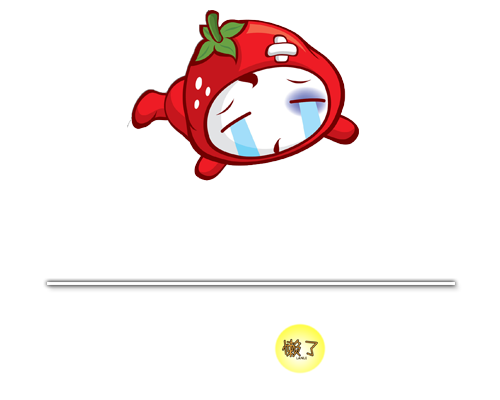
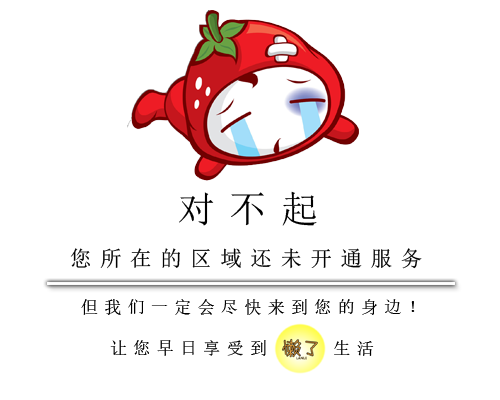
test

diff --git a/public/logic.js b/public/logic.js
@@ -6,6 +6,70 @@ var shoppoingCart = new Array();
 var results = new Array();
 //下单计数器
 var orderCount = 0;
+//手机号
+var phoneNumber;
+
+// 等待PhoneGap加载
+//	document.addEventListener("deviceready", onDeviceReady, false);
+$(document).ready(function() {
+	// 初始化 param1：应用 id、param2：应用 key
+	AV.initialize("hhdpk5vytgtwbc5rkque9oyvfu5mto19ays24u5x5l0pk89j", "d2zsij0i0wwkax18mlo56xsak4my1da58dsza2npmxfyg6r9");
+	$("#afui").get(0).className = 'ios7';
+	/*-----------------变量区--------------------------*/
+	var latitude = 0;
+	var longitude = 0;
+	/*-----------------初始化广告--------------------------*/
+	initAdvertise();
+	/*-----------------初始化地理位置--------------------------*/
+	//geolocation.getCurrentPosition();
+	//	if (navigator.geolocation) {
+	//		navigator.geolocation.getCurrentPosition(successFunction, errorFunction);
+	//	} else {
+	//		alert('It seems like Geolocation, which is required for this page, is not enabled in your browser. Please use a browser which supports it.');
+	//	}
+	getItemData();
+	checkVersion();
+});
+/*			function successFunction(position) {
+latitude = position.coords.latitude;
+longitude = position.coords.longitude;
+-----------------初始化商品--------------------------
+AV.Cloud.run('getItem', {
+"latitude" : latitude,
+"longitude" : longitude
+}, {
+success : function(result) {
+loadItemMainPanel(result);
+},
+error : function(error) {
+alert(error.message);
+}
+});
+}
+function errorFunction() {
+alert("定位失败，请打开gps，并给予懒了足够的权限");
+}
+*/
+
+//获取主页商品数据
+function getItemData() {
+	AV.Cloud.run('getItem', {
+		"latitude" : 31.717531,
+		"longitude" : 118.787853
+	}, {
+		success : function(result) {
+			loadItemMainPanel(result);
+		},
+		error : function(error) {
+			if (error.message == 2) {
+				$("#main_panel ul").remove();
+				var img = "<img id='no_sevice_tip_img_main_panel' src='images/no_service_tip.png' />";
+				$("#main_panel > div").append(img);
+			}
+		}
+	});
+}
+
 //加载主页商品
 function loadItemMainPanel(Items) {
 	var userGeo = new AV.GeoPoint({
@@ -17,19 +81,21 @@ function loadItemMainPanel(Items) {
 			latitude : Items[i].location.latitude,
 			longitude : Items[i].location.longitude
 		});
-		var li = "<li><a data-transition='pop' data-id='" + Items[i].objectId + "' href='#buy_panel'><img src='" + Items[i].smallImage._url + "'><div><p>" + Items[i].name + "<span>" + Items[i].price + "元</span></p><p>" + Items[i].shopName + "<span>距您" + userGeo.kilometersTo(itemGeo).toFixed(2) + "km</span></p></div></a></li>";
+		var li = "<li><a data-transition='pop' data-freight='" + userGeo.kilometersTo(itemGeo).toFixed(2) + "' data-id='" + Items[i].objectId + "' href='#buy_panel'><img src='" + Items[i].smallImage._url + "'><div><p>" + Items[i].name + "<span>" + Items[i].price + "元</span></p><p>" + Items[i].shopName + "<span>距您" + userGeo.kilometersTo(itemGeo).toFixed(2) + "km</span></p></div></a></li>";
 		$("#main_panel ul").append(li);
+		$("#main_panel > div >  ul > li > a").eq(i).click(function() {
+			localStorage.setItem("itemId", $(this).attr("data-id"));
+		});
 	}
-	$("#main_panel > div >  ul > li > a").click(function() {
-		localStorage.setItem("itemId", $(this).attr("data-id"));
-	});
+
 }
 
 //初始化广告
 function initAdvertise() {
 	var ad = AV.Object.extend("Advertise");
 	var query = new AV.Query(ad);
-	query.descending("updatedAt");
+	query.descending("createdAt");
+	query.equalTo("enable", true);
 	query.limit(4);
 	query.find().then(function(results) {
 		for (var i = 0; i < results.length; i++) {
@@ -67,7 +133,7 @@ function collect() {
 		favorite.set("itemId", localStorage.getItem('itemId'));
 		favorite.save().then(function(favorite) {
 			popup = af("#afui").popup("收藏成功");
-		}, function(favorite, error) {
+		}, function(error) {
 			if (error.message[error.message.length - 1] == 2)
 				popup = af("#afui").popup("您不需要重复收藏");
 			else
@@ -76,6 +142,7 @@ function collect() {
 	} else {
 		//登录
 		popup = loginPop();
+		collect();
 	}
 }
 
@@ -129,7 +196,7 @@ function loginPop() {
 				},
 				error : function(user, error) {
 					// The login failed. Check error to see why.
-					popup = af("#afui").popup("登录成功");
+					popup = af("#afui").popup("登录失败");
 				}
 			});
 		},
@@ -188,8 +255,11 @@ function CollectPanelLoad() {
 				$("#collect_panel ul").empty();
 				$('#collect_panel #no_collect_tip_img_collect_panel').remove();
 				for ( i = 0; i < result.length; i++) {
-					var li = "<li id='" + result[i].objectId + "' ><div><img src='" + result[i].smallImage._url + "' /><div><p>" + result[i].name + "</p></div><img class='delete_collect_panel' src='images/delete.png' onclick='deleteCollect(this)' /></div></li>";
+					var li = "<li data-id='" + result[i].objectId + "' ><a data-transition='pop' href='#buy_panel'><div><img src='" + result[i].smallImage._url + "' /><div><p>" + result[i].name + "</p></div><img class='delete_collect_panel' src='images/delete.png' onclick='deleteCollect(this);return false;' /></div></a></li>";
 					$("#collect_panel ul").append(li);
+					$("#collect_panel ul > li > a").eq(i).click(function() {
+						localStorage.setItem("itemId", $(this).attr("data-id"));
+					});
 				}
 			},
 			error : function(error) {
@@ -356,6 +426,9 @@ function deleteCollect(node) {
 	}, function(favorite, error) {
 		popup = af("#afui").popup("失败");
 	});
+	$(node).parent().parent().click(function() {
+		return false;
+	});
 }
 
 //反馈框
@@ -396,3 +469,25 @@ function aboutPop() {
 	popup = af("#afui").popup("艺术家团队是南京邮电大学通达学院一支大学生创业团队，立志为您打造不一样的网上购物体验，我们后续还会推出除食品外的其它商品，让您足不出户，买遍全城。联系QQ：2815859682");
 }
 
+function checkVersion() {
+	var Version = AV.Object.extend("Version");
+	var query = new AV.Query(Version);
+	query.first().then(function(version) {
+		if (version.get("code") > 1) {
+			popup = af("#afui").popup({
+				title : "需要更新",
+				message : "更新内容:" + version.get("description"),
+				cancelText : "取消",
+				cancelCallback : function() {
+				},
+				doneText : "立即更新",
+				doneCallback : function() {
+					window.open(version.get("package").url(), "_system");
+				},
+				cancelOnly : false
+			});
+		}
+	}, function(error) {
+		alert("Error: " + error.code + " " + error.message);
+	});
+}

diff --git a/public/index.html b/public/index.html
@@ -1,5 +1,4 @@
 <!DOCTYPE html>
-<!--HTML5 doctype-->
 <html>
 	<head>
 		<title>懒了</title>
@@ -43,69 +42,9 @@
 		<script type="text/javascript" charset="utf-8" src="./ui/transitions/slideDown.js"></script>
 		<script type="text/javascript" charset="utf-8" src="./ui/transitions/slideUp.js"></script>
 		<script type="text/javascript" charset="utf-8" src="./plugins/af.slidemenu.js"></script>
-		<!--	<script text="text/javascript" src="cordova.js"></script>-->
+		<!--<script text="text/javascript" src="cordova.js"></script>-->
 		<script src="https://cn.avoscloud.com/scripts/lib/av-0.3.4.min.js"></script>
-		<script type="text/javascript" charset="utf-8">
-			// 等待PhoneGap加载
-			//	document.addEventListener("deviceready", onDeviceReady, false);
-			// 加载完成
-			$(document).ready(function() {
-				// 初始化 param1：应用 id、param2：应用 key
-				AV.initialize("hhdpk5vytgtwbc5rkque9oyvfu5mto19ays24u5x5l0pk89j", "d2zsij0i0wwkax18mlo56xsak4my1da58dsza2npmxfyg6r9");
-				$("#afui").get(0).className = 'ios7';
-				/*-----------------变量区--------------------------*/
-				var latitude = 0;
-				var longitude = 0;
-				/*-----------------初始化广告--------------------------*/
-				initAdvertise();
-				/*-----------------初始化地理位置--------------------------*/
-				//geolocation.getCurrentPosition();
-				//	if (navigator.geolocation) {
-				//		navigator.geolocation.getCurrentPosition(successFunction, errorFunction);
-				//	} else {
-				//		alert('It seems like Geolocation, which is required for this page, is not enabled in your browser. Please use a browser which supports it.');
-				//	}
-				/*-----------------初始化商品--------------------------*/
-				AV.Cloud.run('getItem', {
-					"latitude" : 31.767531,
-					"longitude" : 118.787853
-				}, {
-					success : function(result) {
-						loadItemMainPanel(result);
-					},
-					error : function(error) {
-						if (error.message == 2) {
-							$("#main_panel ul").remove();
-							var img = "<img id='no_sevice_tip_img_main_panel' src='images/no_service_tip.png' />";
-							$("#main_panel > div").append(img);
-						}
-						alert(error.message);
-					}
-				});
-			});
-			/*			function successFunction(position) {
-			 latitude = position.coords.latitude;
-			 longitude = position.coords.longitude;
-			 -----------------初始化商品--------------------------
-			 AV.Cloud.run('getItem', {
-			 "latitude" : latitude,
-			 "longitude" : longitude
-			 }, {
-			 success : function(result) {
-			 loadItemMainPanel(result);
-			 },
-			 error : function(error) {
-			 alert(error.message);
-			 }
-			 });
-			 }
-
-			 function errorFunction() {
-			 alert("定位失败，请打开gps，并给予懒了足够的权限");
-			 }
-			 */
-
-		</script>
+		<script type="text/javascript" charset="UTF-8"></script>
 	</head>
 	<body>
 		<div id="afui" class="bb">
@@ -127,7 +66,7 @@
 					</footer>
 				</div>
 				<!------------------------------------------------------收藏------------------------------------------------------------>
-				<div title="收藏" id="collect_panel" class="panel" data-footer="none" data-header="topBar" data-load="CollectPanelLoad">
+				<div title="收藏" id="collect_panel" class="panel" data-footer="none"data-load="CollectPanelLoad">
 					<div>
 						<img src="images/collect_logo.png" />
 						<p>
@@ -135,6 +74,10 @@
 						</p>
 					</div>
 					<ul></ul>
+					<header id="topBar_collect_panel">
+						<a onclick="af.ui.goBack()"><img src="images/goBack.png" /></a>
+						<h1>懒了</h1>
+					</header>
 				</div>
 				<!------------------------------------------------------主页------------------------------------------------------------>
 				<div title="推荐" id="main_panel" class="panel" data-footer="none" data-header="topBar" selected="true">
@@ -175,20 +118,17 @@
 				</header>
 				<!------------------------------------------------------导航------------------------------------------------------------>
 				<nav>
-					<div style="height: 200px;width:200px;background: #272C30;">
-						<img src="images/logo.png" style="height: 100px;width: 100px;
-						margin:20px 50px 0px;border-radius: 15px;"/>
-						<p id="nav_phonenumber" style="color:white;font-size: 25px;text-align: center;"></p>
-						<p id="nav_adress" style="color:white;font-size: 15px;text-align: center;"></p>
+					<div>
+						<img src="images/logo.png"/>
 					</div>
 					<ul class="list">
-						<li style="border-bottom-color: #41464A;border-top-color: #41464A;">
+						<li>
 							<a href="#main_panel">推荐</a>
 						</li>
 						<li>
 							<a href="#shopping_cart_panel">购物车</a>
 						</li>
-						<li style="border-bottom-color: #41464A;">
+						<li>
 							<a href="#user_panel">用户中心</a>
 						</li>
 					</ul>

diff --git a/public/css/basic.css b/public/css/basic.css
@@ -30,7 +30,7 @@ nav ul li {
 }
 #main_panel li div p:first-child {
 	font-size:25px;
-	color:pink;
+	color:#FF6699;
 }
 #main_panel li div p:first-child span {
 	margin-left:20px;
@@ -225,7 +225,7 @@ a {
 	display:block;
 	height:80px;
 }
-#collect_panel> div> ul> li> div> div> p {
+#collect_panel> div> ul> li> a> div> div> p {
 	float:left;
 	height:80px;
 	line-height:80px;
@@ -287,4 +287,27 @@ a {
 	width:45px;
 	height:45px;
 	float:left;
+}
+#header #topBar_collect_panel> a> img {
+	width:45px;
+	height:45px;
+	float:left;
+}
+nav> div {
+	height:200px;
+	width:200px;
+	background:#272C30;
+}
+nav> div> img {
+	height:100px;
+	width:100px;
+	margin:40px 50px 0px;
+	border-radius:15px;
+}
+#afui.ios7 #menu .list li:first-child {
+	border-bottom-color:#41464A;
+	border-top-color:#41464A;
+}
+#afui.ios7 #menu .list li:last-child {
+	border-bottom-color:#41464A;
 }
